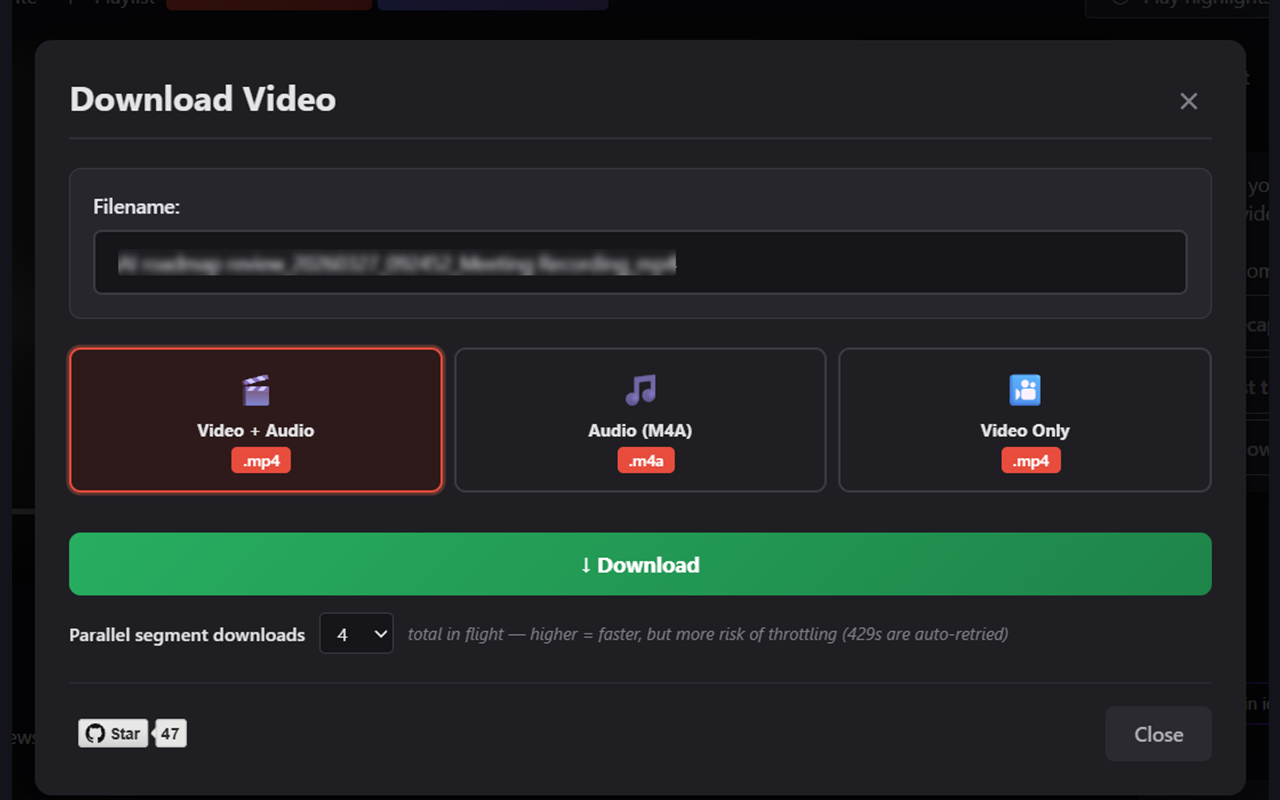
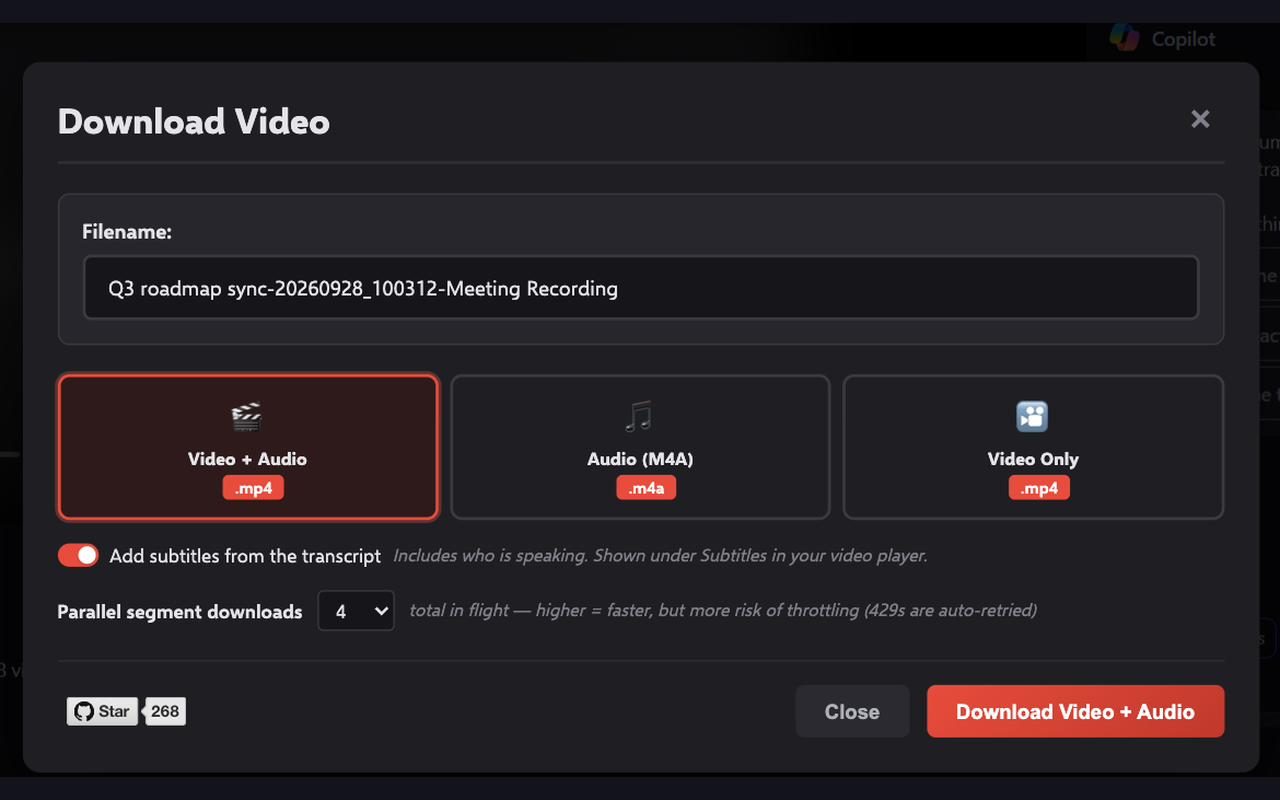
docs: update README, demo site and store listing for the new modals
New dark and light screenshots of both modals for the demo site, and
the 1280x800 Web Store versions derived from the dark ones (letterboxed
in rgb(19,19,27), 24-bit RGB, as chrome-store/README.md describes).
They show the footer buttons from this PR, the "Download Transcript"
title, the subtitles switch from #35 and the transcript options from
#34.

The screenshots are the extension's own rendering, on top of the
existing dark/light recording.png as the page behind the dialogs, at
the same scale, so no new meeting content is involved.

Text: README features list, store description, demo site captions and
the hero image's alt text now mention the subtitles track and the
transcript options, and no longer describe a green Download button.

diff --git a/README.md b/README.md
@@ -27,12 +27,14 @@ Works on:
 - **In-browser download** — Video+Audio (MP4), Audio Only (M4A), or Video Only. No extra tools needed.
 - **Parallel segment fetching** — tunable concurrency (1–16 segments at once) with automatic backoff if SharePoint throttles. Multi-threaded mux off the UI thread.
 - **Editable filename** — auto-derived from the page title.
+- **Optional subtitles** — Video + Audio downloads can carry the transcript as a subtitle track, with speaker names.
 - **Floating banner widget** as a fallback for when the SharePoint command bar re-renders or hides the button.
 
 ### Transcript download
 - **Automatic detection** — the extension watches for the transcript metadata call and adds a Download Transcript button.
 - **Three formats** — RAW JSON, standard WebVTT, or Grouped VTT (consecutive lines from the same speaker collapsed into a block).
 - **Live preview** of each format in the modal.
+- **Optional timestamps and speaker names** — a `[hh:mm:ss]` start time on each Grouped VTT block, and speaker names in the VTT caption text.
 - **Last-used format remembered** across sessions.
 - Clear dialog if the meeting was never transcribed, instead of a silent failure.
 

diff --git a/chrome-store/description.md b/chrome-store/description.md
@@ -34,6 +34,8 @@ Three format options:
 🎵 Audio Only (.m4a) — Original audio, no re-encoding
 🎬 Video Only (.mp4) — No audio track
 
+Turn on "Add subtitles from the transcript" and Video + Audio downloads get a subtitle track with speaker names, listed under Subtitles in your video player.
+
 Performance:
 - Segments fetched in parallel with a tunable concurrency selector (1 / 2 / 4 / 8 / 16). Default 4 keeps tenant-throttling risk low.
 - Automatic 429 / Retry-After backoff if SharePoint pushes back — no failed downloads from transient throttling.
@@ -55,11 +57,13 @@ Three professional formats:
 📝 VTT Format (.vtt)
 - Standard WebVTT subtitle format with timestamps
 - Speaker voice tags
+- Optional speaker names in the caption text, so video players show who is talking
 - Works with most video players and subtitle editors
 
 🤖 Grouped Text (.txt)
 - Consecutive messages from the same speaker collapsed into a block
 - Clean, readable format optimized for LLMs and human reading
+- Optional [hh:mm:ss] timestamp at the start of each block
 - Easy to scan and summarise
 
 How it works:

diff --git a/chrome-store/README.md b/chrome-store/README.md
@@ -15,8 +15,8 @@ Sourced from `demo-website/src/assets/screenshots/dark/*.png` (the full-resoluti
 | File | Source aspect | Bars |
 |---|---|---|
 | `screenshots/recording.png` | 1905×791 (2.41:1) | top/bottom letterbox |
-| `screenshots/video-modal.png` | 1080×680 (1.59:1) | small left/right pillarbox |
-| `screenshots/transcript-modal.png` | 1580×798 (1.98:1) | top/bottom letterbox |
+| `screenshots/video-modal.png` | 1170×689 (1.70:1) | small top/bottom letterbox |
+| `screenshots/transcript-modal.png` | 1685×895 (1.88:1) | top/bottom letterbox |
 
 ### Regenerating
 
